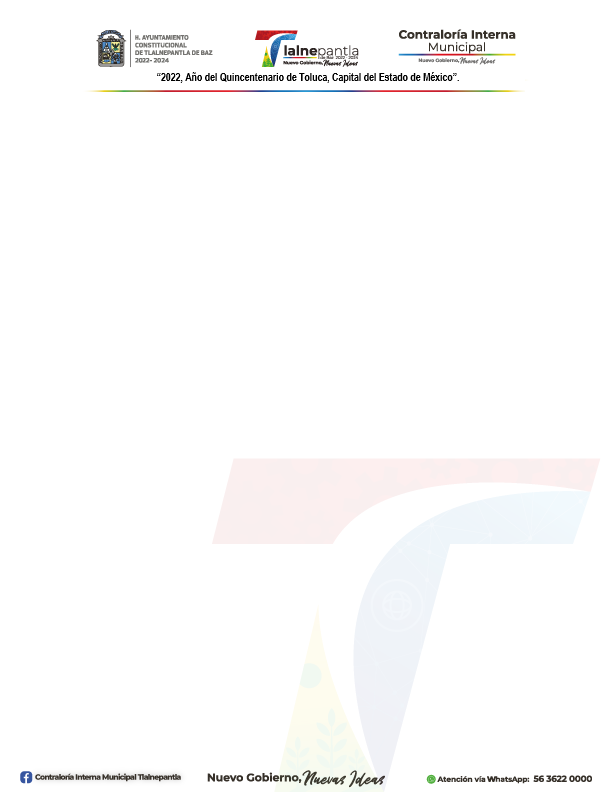
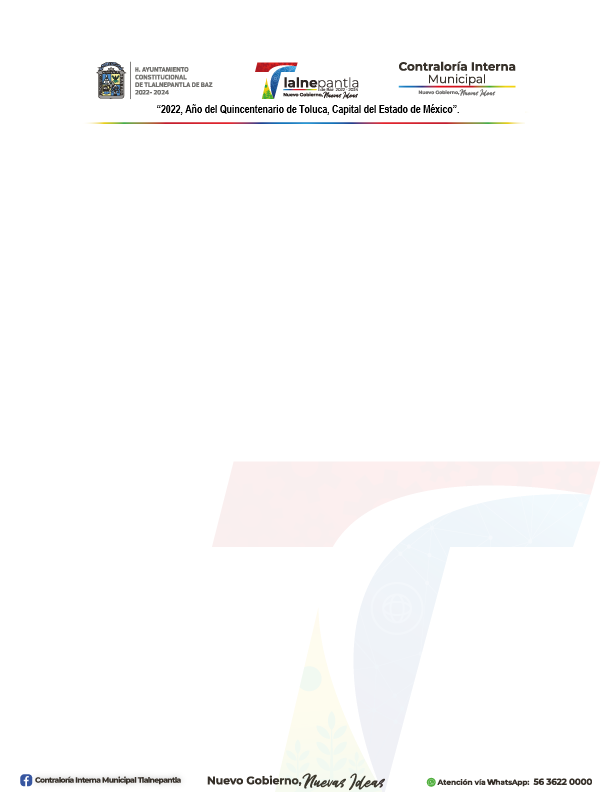
Cambios en vista de margenes

diff --git a/views/modules/descargar-word.php b/views/modules/descargar-word.php
@@ -120,22 +120,14 @@ class WordController
         $header = $section->createHeader();
         $header->addWatermark(
         '../../views/img/acta.png', [
-            'marginTop' => -40,
+            'marginTop' => -90,
             'marginLeft' => -50,
             'posHorizontal' => 'absolute',
             'posVertical' => 'absolute'
         ]);
 
 
-        $text = "\n\n";
-        $textlines = explode("\n", $text);
-
-        $textrun = $section->addTextRun();
-        $textrun->addText(array_shift($textlines));
-        foreach ($textlines as $line) {
-            $textrun->addTextBreak();
-            $textrun->addText($line);
-        }
+        
         
 
         $section->addText('ACTA CIRCUNSTANCIADA','tFont','tStyle');
